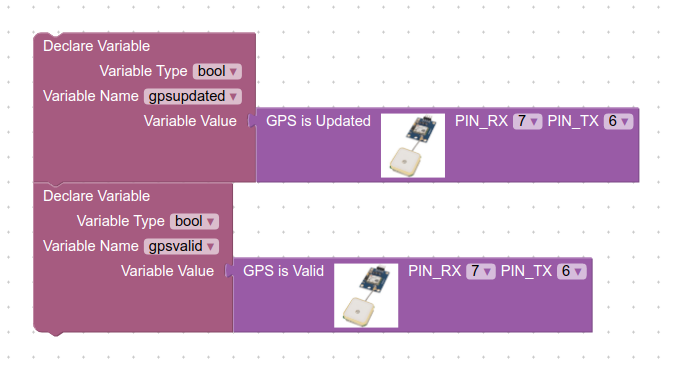
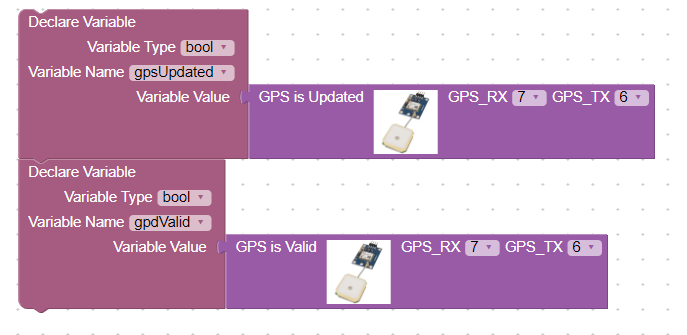
GPS wiki documentation

Changed region(s): [[0.0, 0.0, 0.9644, 0.9552]]

diff --git a/wiki/Programmering-med-GPS-antenna-Blokkprogrammering.md b/wiki/Programmering-med-GPS-antenna-Blokkprogrammering.md
@@ -16,9 +16,12 @@ Klikk på den store grønne pilen der det står Download. Husk å ikke åpne fil
 
 Åpne en `Arduino IDE`. I `Arduino IDE` programmet, finn menyen `Sketch`&rarr;`Include library`&rarr;`Add ZIP library` og velg filen du nettopp lastet ned.
 
-## TMP
+## Laste ned og installere air:bit biblioteker helplink
 
-*Merk at vi kaller `!` for **NOT**-operatoren. Dvs. betingelsen leses som: NOT isUseful*
+UiT har laget noen biblioteker for å gjøre air:bit koden mer håndterbar. Vi har to hjelpebiblioteker. Begge kan bli hentet ifra [BlocklyDuino](http://http://airbit.uit.no:8080) siden. Ved å klikke på _Download Project_ knappen, og de forskjellige pop-up vinduene som dukker opp, får man en `.zip` fil ut. Ved å pakke ut filen får du en mappe som inneholder en til `.zip` fil, kalt _lib.zip_. Denne filen må du også pakke ut. Inne i _lib_ mappen vil du finne 2 `.zip` filer. Disse filene er hjelpe bibliotekene. De kan vi installere som vi har gjort på tidligere vis.
+
+Åpne en `Arduino IDE`. I `Arduino IDE` programmet, finn menyen `Sketch`&rarr;`Include library`&rarr;`Add ZIP library` og velg de filene du pakket frem.
+
 ## Kodeblokker helplink
 
 GPS-en forteller oss om den har en gyldig posisjon. I tillegg til å printe ut teksten over USB-ledningen til datamaskinen vil vi bruke LED-lysene for å blinke grønt når vi har kontakt med GPS-satellittene, og blinke rødt når vi ikke får kontakt med satellittene. Dette betyr at vi må gjøre litt sjekking etter feilkoder.
@@ -29,86 +32,122 @@ Vi kan se at de fleste `GPS`-blokkene krever en `GPS_RX` og en `GPS_TX` verdi. D
 
 ![][skjermbilde-update-GPS-blockly]
 
-En tommelfingerregel i programmering er at man bør gjøre håndtering av feil øverst i kodeblokkene sine. Dvs. sjekk først for alle feil. Dette er fordi det som regel er enklere å teste mot spesifikke feilbetingelser. 
-
 Etter denne blokken kan vi være sikre på at vi har fått informasjon fra GPS-en. La oss nå sjekke om vi har en gyldig posisjon. Vi bruker `GPS is Valid`-blokken for dette. Denne blokken returner enten `true` eller `false`, altså er det en sannhetsverdi (`bool`) verdi. Deklarer en variabel med navnet `gpsvalid`, gi den typen `bool` og koble `GPS`-blokken til den.  til `gps`-variabelen for dette. 
 
 Dersom du har oppnådd kontakt med satellitter for å så ha mistet kontakten igjen (f.eks. fordi du går inn i en tunnel, et hus med tykke vegger, o.l.) vil `GPS is Valid`-blokken fortsette å gi `true` som svar, derfor må vi også sjekke om dataen har blitt oppdatert siden siste gang vi leste av. Vi bruker `GPS is Updated`-blokken for dette. Deklarer en ny `bool` variabel som tar imot denne verdien.
 
 ![][skjermbilde-variables-GPS-blockly]
 
-Får at GPS informasjonen skal være nyttig må den være både _Valid_ of _Updated_. For å sjekke om begge variablene er sanne bruker vi en `Logical AND`-blokk, som vi finner under _Logic_ sidefanen. `Logical And` betyr *OG*, dvs. både høyre og venstre betingelse må være `true` for at hele betingelsen skal være `true`.
+En tommelfingerregel i programmering er at man bør gjøre håndtering av feil øverst i koden sine. Dvs. sjekk først for alle feil. Dette er fordi det som regel er enklere å teste mot spesifikke feilbetingelser. 
 
-Trekk en `Logical AND`-blokk ut og koble de to forrige verdiene til den. Deklarer en tredje `bool` variabel som heter `isuseful` som tar in verdien ifra `Logical And`-blokken, slik at verdien blir lagret.
+For at GPS informasjonen skal være nyttig må den være både _Valid_ of _Updated_. Man kan sjekke om begge variablene er sanne bruker ved å bruke en `Logical AND`-blokk, som vi finner under _Logic_ sidefanen. `Logical And` betyr *OG*, dvs. begge betingelse må være `true` for at hele betingelsen skal være `true`.
 
-Hvis dataen ikke er brukbar, trenger vi ikke å gå videre i programmet. Trekk ut en `if - do`-blokk fra _Logic_ sidefanen.
+Trekk en `Logical AND`-blokk ut og koble de forrige to blokkene til den. Deklarer en tredje `bool` variabel som heter `isuseful` som tar in verdien ifra `Logical And`-blokken, slik at verdien blir lagret.
 
-``` cpp
-  if (!(gps.location.isValid() && gps.location.isUpdated())) {
-    // No valid position.
-    // I.e. no GPS fix.
-  }
-```
+![][skjermbilde-and-GPS-blockly]
 
+Hvis dataen ikke er brukbar, trenger vi ikke å gå videre i programmet. Trekk ut en `if - do`-blokk fra _Logic_ sidefanen. Siden vi skal reagere på at `isuseful` ikke skal være sann, må vi transformere verdien for å kunne bruke den riktig i `if - do`-blokken. Vi må få en sann verdi når `isuseful` er usann, og omvendt. Dette gjør vi med en `not`-blokk, som vi finner under _Logic_ sidefanen.
+
+Når vi ikke har brukbar data, har vi lyst til å blinke det røde lyset, for så å starte `loop`-funksjonen på nytt. Hvis vi har brukbar data, blinker vi med det grønne lyset istedet.
+
+Vi kan starte `loop`-funksjonen på nytt med en `Ends Function`-blokken som finnes under _Control_ sidefanen. Denne blokken avslutter funksjonen den er under, men siden `loop`-funksjonen starter på nytt når den blir avsluttet, fungerer den som en type omstart.
+
+![][skjermbilde-check-GPS-blockly]
+
+Nå som vi vet at vi har brukbar data kan vi hente ut informasjonen og skrive det ut over seriellforbindelsen. Informasjonen vi har lyst på er GPS posisjonen, altså lengde- og bredegradene, samt tiden for målingen.
+
+Lengde- og breddegradene hentes ut som variabler av typen `double`. Man får lengdegraden ifra en blokk som heter `GPS Longitude`, og breddegraden ifra `GPS Latitude` blokken.
+
+Tiden får man ifra `Get DateTime`-blokken. Denne returnerer en spesiellt type kalt `AirBitDateTimeClass`. Deklarer en variabel av denne typen og hekt den sammen med `Get DateTime` blokken. 
+
+Lengde- og breddegradene kan man skrive ut over seriellforbindelsen på samme måte som tidligere, men tiden må skrives ut med en egen blokk. Denne blokken heter `Print DateTime`, og finnes under _Air:Bit; GPS_ sidefanen. Hekte _Tid_ variabelen til `Print DateTime` blokken for å skrive ut tidsinformasjonen.
+
+![][skjermbilde-GPS-print-blockly]
+
+Sett på en `Delay`-blokk til slutt for å gi arduinoen litt tid mellom hver måling.
 Følgende kode vil være lik den over, men kan være litt enklere å lese:
-
-``` cpp
-  bool gpsValid = gps.location.isValid();
-  bool gpsUpdated = gps.location.isUpdated();
-  bool isUseful = gpsValid && gpsUpdated;
-  if (!isUseful) {
-    // No valid position.
-    // I.e. no GPS fix.
-  }
-```
-
-Vi lagrer sannhetsverdier (eller påstander) i variabler av type `bool`. I motsetning til `int` (som lagrer heltall) kan `bool`-variabler kun ha verdiene `true` eller `false`.
-
-
-I tilfeller der vi ikke har en gyldig posisjon, har vi ikke kontakt med satellitten. Da ville vi blinke rødt. Husk hvordan vi gjorde det: 
-
-1. Skru på rødt lys. `digitalWrite` med `HIGH` som andre argument.
-1. Vent litt. `delay`
-1. Skru av rødt lys. `digitalWrite` med `LOW` som andre argument.
-
-``` cpp
-  bool gpsValid = gps.location.isValid();
-  bool gpsUpdated = gps.location.isUpdated();
-  bool isUseful = gpsValid && gpsUpdated;
-  if (!isUseful) {
-    // No valid position.
-    // I.e. no GPS fix.
-    Serial.println("No valid GPS position");
-    digitalWrite(LED_RED, HIGH);
-    delay(500);
-    digitalWrite(LED_RED, LOW);
-    return;
-  }
-```
-
-Vi bruker `return`-instruksjonen for å stoppe utføringen av kode inni `loop`-funksjonen. Dette vil få Arduinoen til å hoppe rett til neste gjennomgang av `loop`-funksjonen og starte GPS avlesningen **helt** på nytt igjen. I tilfeller der vi ikke har noe brukbar GPS informasjon, må vi bare vente til vi får et godt signal, så å starte på nytt virker som en god idé.
-
-*Merk at koden over også har med en instruksjon for å skrive ut (over seriell-koblingen til datamaskinen) at vi ikke fikk kontakt.*
-
-Neste steg er: Blinke grønt, og skrive ut GPS dataen over seriell-koblingen til datamaskinen.
-
-Det enkleste først: Blink det grønne LED-lyset for å vise at vi har fått kontakt med nok GPS-satellitter.
-
-`gps.location.lat()` og `gps.location.lng()` gir oss posisjonen i lengde- og breddegrader som desimaltall. I en `Serial.print()`-kommando kan du legge til et argument for å spesifisere antall desimaler bak kommaet. Eksemplet under vil skrive ut posisjonen med `6` desimaler bak kommaet:
-
-``` cpp
-  Serial.print("Latitude: ");
-  Serial.print(gps.location.lat(), 6); // Latitude in degrees
-  Serial.print("\t");
-  Serial.print("Longitude: ");
-  Serial.print(gps.location.lng(), 6); // Longitude in degrees
-  Serial.println();
-```
 
 ## Ferdig
 
 Avhengig av hvilke verdier du skrive ut, hvordan du navngir dine variabler, osv. kan koden din se litt annerledes ut enn her. Men koden bør ligne dette:
 
+![][skjermbilde-GPS-blockly]
+
+![][skjermbilde-GPS-print-blockly]
+
+Kodelinjene bør også se slik ut:
+
+```cpp
+#include <TinyGPS++.h>
+#include <SoftwareSerial.h>
+#include "AirBitUtilsClass.h
+
+#include "AirBitDateTimeClass.h
+
+bool gpsUpdated;
+
+bool gpdValid;
+
+bool isUseful;
+
+double Latitude;
+
+double Longitude;
+
+AirBitDateTimeClass Tid;
+
+#define GPS_RX 7
+#define GPS_TX 6
+
+SoftwareSerial gpsCom(GPS_RX, GPS_TX);
+TinyGPSPlus gps;
+
+AirBitUtilsClass airbitUtils
+
+#define LED_RED A1
+#define LED_GREEN A0
+
+void setup()
+{
+  gpsCom.begin(9600); // Initialize serial communication to GPS antenna
+
+  Serial.begin(9600);
+
+  pinMode(LED_RED, OUTPUT);
+
+  pinMode(LED_GREEN, OUTPUT);
+
+}
+
+
+void loop()
+{
+  gpsCom.listen();
+  airUtils.WaitOnGpsEncoding(gps, gpsCom);
+  gpsUpdated = gps.location.isUpdated();
+  gpdValid = gps.location.isValid();
+  isUseful = ( gpsUpdated && gpdValid );
+  if (isUseful) {
+    Serial.println("Ingen gyldig GPS posisjon");
+    digitalWrite(LED_RED, HIGH);
+    delay(500);
+    digitalWrite(LED_RED, LOW);
+    return;
+
+  }
+  digitalWrite(LED_GREEN, HIGH);
+  delay(500);
+  digitalWrite(LED_GREEN, LOW);
+  Latitude = gps.location.lat();
+  Longitude = gps.location.lng();
+  Tid = airbitUtils.GetDateTime(gps);
+  Serial.println(Latitude);
+  Serial.println(Longitude);
+  Tid.PrintSerial();
+  delay(2500);
+
+}
+```
 
 ## Gå videre
 
@@ -126,12 +165,9 @@ Avhengig av hvilke verdier du skrive ut, hvordan du navngir dine variabler, osv.
 [pinout]: airbit-Pinout
 [debugging-var-out-of-scope]: Feilsøking-av-programmeringsfeil#bruk-av-variabler-utenfor-scope
 
-![][skjermbilde-and-GPS-blockly]
-![][skjermbilde-check-GPS-blockly]
-![][skjermbilde-GPS-blockly]
-
 [skjermbilde-update-GPS-blockly]: skjermbilde-update-GPS-blockly.png
 [skjermbilde-variables-GPS-blockly]: skjermbilde-variables-GPS-blockly.png
 [skjermbilde-and-GPS-blockly]: skjermbilde-and-GPS-blockly.png
 [skjermbilde-check-GPS-blockly]: skjermbilde-check-GPS-blockly.png
+[skjermbilde-GPS-print-blockly]: skjermbilde-GPS-print-blockly.png
 [skjermbilde-GPS-blockly]: skjermbilde-GPS-blockly.png
